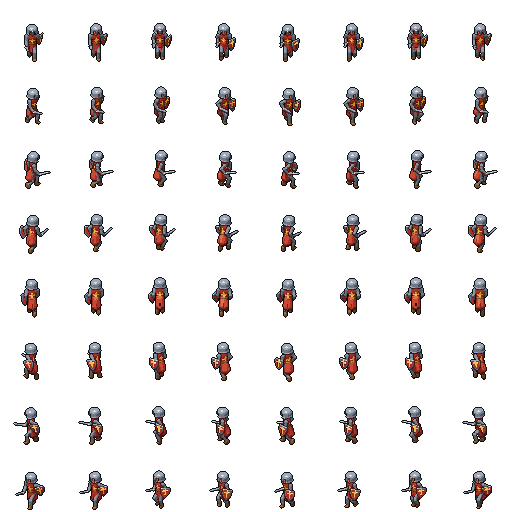
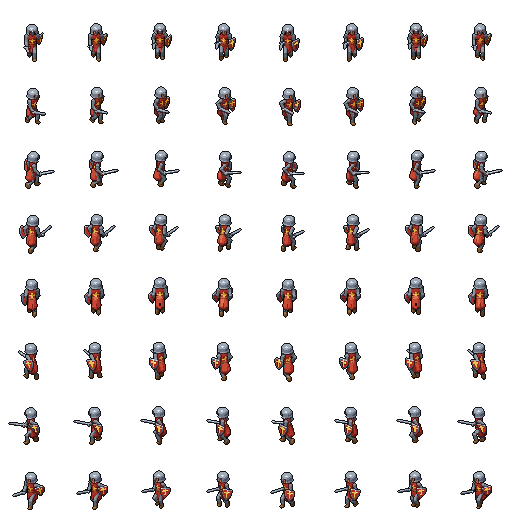
Longer swords for the swordsman and the knight
The short kit sword read as a knife (owner 2026-11-10): a longer blade, a wider
cross-guard, a longer grip and a round pommel.

Claude-Session: https://claude.ai/code/session_01Ves32BqKveoTuegaXswufm

diff --git a/docs/ART_SPEC.md b/docs/ART_SPEC.md
@@ -581,7 +581,7 @@ Powód: kredyty PixelLab skończyły się po ok. 2 tygodniach. Szukamy darmowych
   - Drzewa według referencji właściciela (2026-11-10, **w grze jako mieszany las**: wygląd 1 = `tree_oak_a`, 2 = `tree_oak_b`, 3 = `tree_spruce`, 4 = `tree_pine`, 5 = `tree_spruce_light`, pliki `nature/tree/<stan>[_N].png`, ścięte i pniaki `tree_<gatunek>_{felled,stump}`; uwaga: `tools/generate_goods.gd` rysuje drzewo od nowa, po nim `git checkout assets/nature/tree/`): liściaste `tree_oak_a` (dąb) i `tree_oak_b` (jaśniejszy, węższy): gruby pień z płatami kory i korzeniami, konary widoczne pod koroną, korona z „chmurek” liści (każda osobną częścią, więc między nimi biegnie ciemna linia; na brzegu chmurki małe kulki dają postrzępiony obrys), `shading: toon`. Iglaste `tree_spruce`, `tree_pine` (rzadsze piętra), `tree_spruce_light`: piętra stożków z opadającymi, postrzępionymi końcami gałęzi (osobne części, linie między piętrami). Porównanie: `previews/tree_variants_3x.png`.
   - **Rework żołnierzy, pilot (2026-11-10, ankieta: najpierw 2 jednostki, 8 kierunków, machiny osobno):** halabardnik (według referencji landsknechta: salad z zasłoną brody, napierśnik, płatowa spódniczka, bufiaste rękawy i nogawice w czerwono-złote pasy, halabarda) i łucznik (według referencji łucznika: kaptur kolczy i hełm z nosalem, jasna tunika z czerwonym krzyżem na oliwkowym kaftanie, długi łuk, kołczan; w strzale łuk stoi pionowo także od przodu i od tyłu dzięki kątowi zależnemu od kierunku `pulse(yaw, …)`). Speki `art/specs/characters/<id>/<id>.yaml` (na bazie `humanoid`), arkusze gry: `python3 tools/spritekiln/export_character.py <id>` (8 wierszy S…SW, bez luster, klatka 64, stopa (32, 58) dzięki `camera.center` 1,554; `attack` → `work` i `work_drill`), potem ikonki `python3 tools/make_unit_icons.py`. `shadow: null` (postacie w grze nie mają cienia). Nogawek nie da się zabarwić różnie (`leg_R` to lustro `leg_L`), więc obie w pasy. Poprawki właściciela (2026-11-10): dłuższa halabarda z większym żeleźcem w klatce 96 px (pchnięcie nie mieści się w 64 px; gra czyta rozmiar klatki z wysokości arkusza), łucznik w zielonym kapturze z większym łukiem, cięciwa zawsze bliżej łucznika (kąty łuku liczone dla każdej klatki). Pilot zaakceptowany 2026-11-10.
   - **Rework żołnierzy, paczka 1 (2026-11-10):** włócznik (kapalin z szerokim rondem, pikowana przeszywanica, okrągła jasna tarcza z czerwonym krzyżem, włócznia z czerwonym proporczykiem; klatka 96 px i pchnięcie jak halabardnik), miecznik (otwarty hełm z nosalem, kolczuga, czerwony płaszcz i tarcza z złotym krzyżem, cięcie z szablonu bez świecącej smugi), kusznik (kapalin, pikowany kaftan, czerwone nogawice, torba z bełtami, kusza zbudowana z części: łoże, stalowe łęczysko wygięte do przodu, strzemię, cięciwa w kształcie V po napięciu albo prosta po strzale; strzał, opuszczenie, stopa w strzemieniu, napinanie, nowy bełt), ciężki zbrojny (zamknięty hełm z czerwonym pióropuszem i złotym otokiem, zbroja płytowa, naramienniki, duża tarcza, buzdygan; ciężki cios znad barku). Kusza i buzdygan: kości `xbow`/`mace` z obrotem nadpisanym w specu, kąty wyliczone numerycznie (kusza: kość przy pięści, obrót w układzie tułowia). W grze, czeka na ocenę.
-  - **Rework żołnierzy, paczka 2 (2026-11-10, ankieta: koń wspólny dla obu konnych, inny strój; ramka 128 px):** wspólna baza `art/specs/characters/mounted/mounted.yaml` (gniadosz z czarną grzywą i ogonem, strzałką na czole, siodłem i ogłowiem, jeździec okrakiem; kości konia: tułów, szyja, głowa, ogon, po dwie kości na nogę; chód stępa w 4 taktach: zad L, przód L, zad P, przód P co ćwierć cyklu), a `knight.yaml` i `light_cavalry.yaml` ją rozszerzają (`extends: ../mounted/mounted.yaml`). Rycerz: zamknięty hełm z czerwonym pióropuszem i złotym otokiem, kolczuga i płyty, czerwony płaszcz i tarcza ze złotym krzyżem, miecz (cięcie z siodła znad barku), koń w czerwonym czapraku ze złotymi krzyżami i stalowym naczółku. Lekka jazda: hełm z nosalem, pikowany kaftan, jasna okrągła tarcza z czerwonym krzyżem, włócznia z proporczykiem (pchnięcie nad szyją konia), koń bez czapraka, z czerwoną derką pod siodłem. Drabiniarz (`ladderman.yaml`, klatka 96): czerwona czapka, skórzany kubrak, drabina z dwóch żerdzi i 9 szczebli na prawym ramieniu; w pracy zdejmuje ją, stawia pionowo, przechyla na mur i bierze z powrotem (podniesiona drabina odchylona w prawo, żeby nie zasłaniała twarzy). **Klatka 128 px ma stopę 16 px nad dolną krawędzią, (64, 112)** (`CharacterSheet.foot_margin`, środek kamery 2,869): od przodu przednie nogi konia sięgają niżej niż stopa. Broń przy dłoni wysuniętej do przodu (jeździec) obraca się źle w układzie dłoni: miecz i włócznię przypinamy kością w układzie tułowia (`bones: {sword: {parent: torso_rot, at: wrist_R, rot: …}}`), a wypoziomowaną włócznię od przodu i od tyłu odchylamy w bok obrotem wokół osi pionowej (`sp_y`), bo obrót wokół osi drzewca nic nie daje. Zrzut: `game_shot.tscn -- --map=lakeland --tile=84,64 --zoom=3 --m7=army3 [--drill]` (konni, drabiniarz i halabardnik). Uwaga: `tools/generate_characters.gd` rysuje tych żołnierzy od nowa, po nim przywróć `git checkout assets/characters/{knight,light_cavalry,ladderman}/` (jak resztę żołnierzy ze SpriteKiln). W grze, czeka na ocenę.
+  - **Rework żołnierzy, paczka 2 (2026-11-10, ankieta: koń wspólny dla obu konnych, inny strój; ramka 128 px):** wspólna baza `art/specs/characters/mounted/mounted.yaml` (gniadosz z czarną grzywą i ogonem, strzałką na czole, siodłem i ogłowiem, jeździec okrakiem; kości konia: tułów, szyja, głowa, ogon, po dwie kości na nogę; chód stępa w 4 taktach: zad L, przód L, zad P, przód P co ćwierć cyklu), a `knight.yaml` i `light_cavalry.yaml` ją rozszerzają (`extends: ../mounted/mounted.yaml`). Rycerz: zamknięty hełm z czerwonym pióropuszem i złotym otokiem, kolczuga i płyty, czerwony płaszcz i tarcza ze złotym krzyżem, miecz (cięcie z siodła znad barku), koń w czerwonym czapraku ze złotymi krzyżami i stalowym naczółku. Lekka jazda: hełm z nosalem, pikowany kaftan, jasna okrągła tarcza z czerwonym krzyżem, włócznia z proporczykiem (pchnięcie nad szyją konia), koń bez czapraka, z czerwoną derką pod siodłem. Drabiniarz (`ladderman.yaml`, klatka 96): czerwona czapka, skórzany kubrak, drabina z dwóch żerdzi i 9 szczebli na prawym ramieniu; w pracy zdejmuje ją, stawia pionowo, przechyla na mur i bierze z powrotem (podniesiona drabina odchylona w prawo, żeby nie zasłaniała twarzy). **Klatka 128 px ma stopę 16 px nad dolną krawędzią, (64, 112)** (`CharacterSheet.foot_margin`, środek kamery 2,869): od przodu przednie nogi konia sięgają niżej niż stopa. Broń przy dłoni wysuniętej do przodu (jeździec) obraca się źle w układzie dłoni: miecz i włócznię przypinamy kością w układzie tułowia (`bones: {sword: {parent: torso_rot, at: wrist_R, rot: …}}`), a wypoziomowaną włócznię od przodu i od tyłu odchylamy w bok obrotem wokół osi pionowej (`sp_y`), bo obrót wokół osi drzewca nic nie daje. Zrzut: `game_shot.tscn -- --map=lakeland --tile=84,64 --zoom=3 --m7=army3 [--drill]` (konni, drabiniarz i halabardnik). Uwaga: `tools/generate_characters.gd` rysuje tych żołnierzy od nowa, po nim przywróć `git checkout assets/characters/{knight,light_cavalry,ladderman}/` (jak resztę żołnierzy ze SpriteKiln). W grze, czeka na ocenę. Poprawka właściciela (2026-11-10, „miecz wygląda jak nóż”): miecznik i rycerz mają dłuższy miecz (klinga 0,74 i 0,78, szerszy jelec, dłuższy uchwyt i okrągła głowica, części `sword_guard`, `sword_grip`, `sword_pommel` nadpisane w specu).
   - **Ściąga dla agentów (wszystkie funkcje, polecenia, pułapki, wskazówki autora): `tools/spritekiln/AGENT_NOTES.md`; pełne przewodniki autora (wersja 0.3.0) w `tools/spritekiln/.spritekiln/agent/`.**
   - **Przydatne funkcje SpriteKiln (sprawdzone 2026-11-09):**
     - `spritekiln ref prep <obraz> --pitch 30` wycina tło ze zdjęcia albo rysunku (np. modelu statku na białym tle) i wyciąga z niego paletę; `spritekiln ref compare <spec> <obraz> --dir <kierunek>` daje arkusz: referencja, nasz sprite, nałożone sylwetki (czerwone = tylko w referencji, niebieskie = tylko u nas), 8 kierunków i obie palety, plus liczbę zgodności (IoU) i podpowiedzi typu „na wysokości 40–50% za szeroko”. Najlepiej działa ze zdjęciem dokładnie z boku albo z tego samego kąta co kierunek gry (`previews/galleon_ref_compare.png`: model San Francisco jest pod kątem, więc liczba jest niska).
